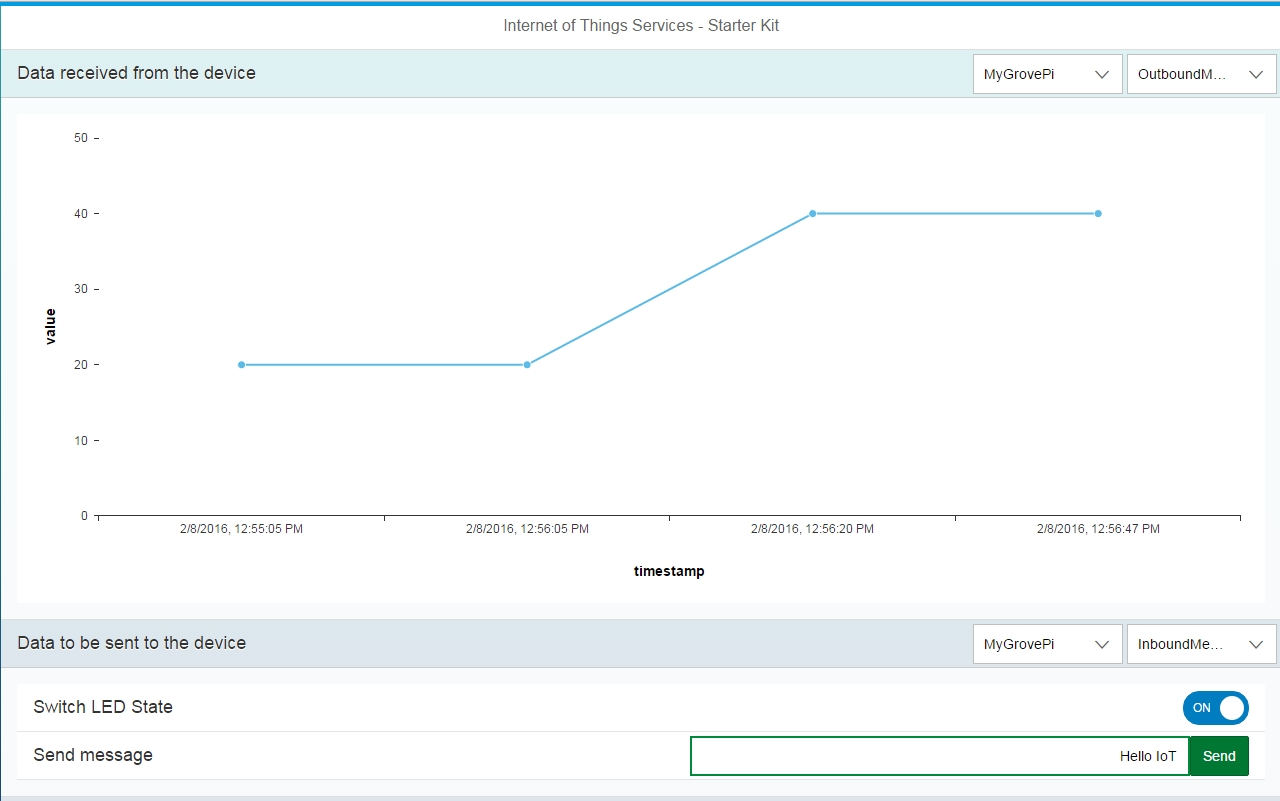
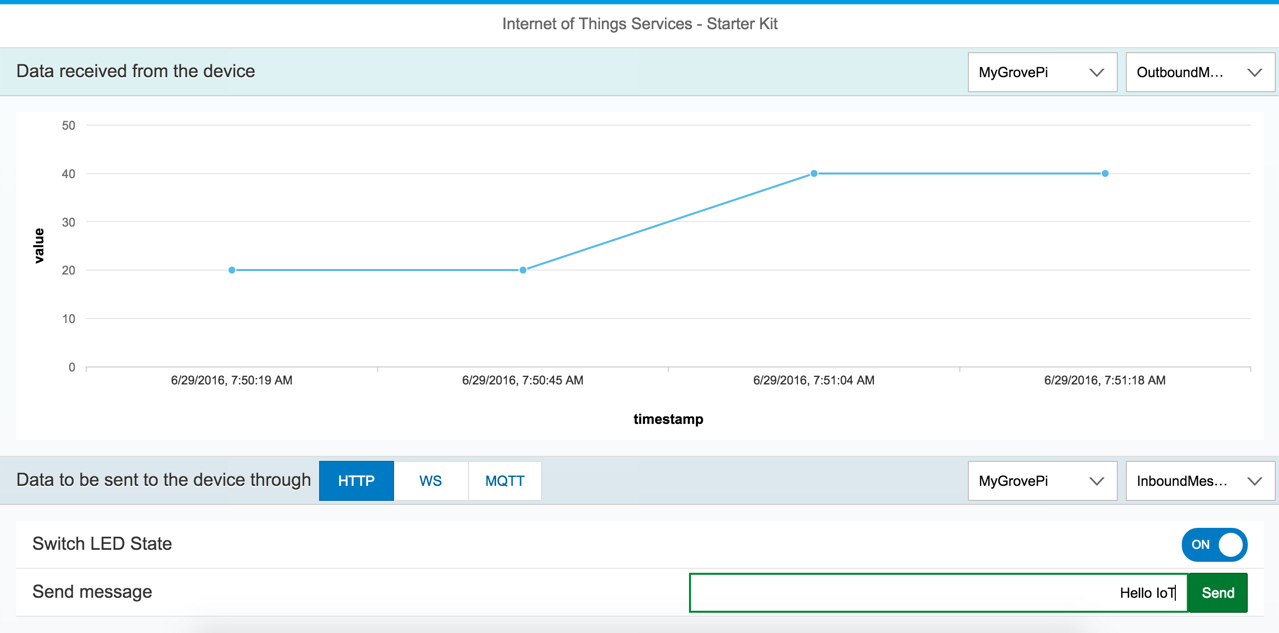
extend ui5 consumption/push example with an option to switch a push method

diff --git a/src/apps/java/consumption/com.sap.iot.starterkit.ui/src/main/webapp/index.html b/src/apps/java/consumption/com.sap.iot.starterkit.ui/src/main/webapp/index.html
@@ -106,6 +106,7 @@
 
 		var sDeviceId = oPushModelData.deviceId;
 		var sMessageTypeId = oPushModelData.messageTypeId;
+		var sMethod = oPushModelData.method;
 
 		if ( sDeviceId === null || sMessageTypeId === null || sDeviceId.trim() === ""
 			|| sMessageTypeId.trim() === "" ) {
@@ -113,6 +114,7 @@
 		}
 
 		oData.messageType = sMessageTypeId;
+		oData.method = sMethod;
 
 		var sUrl = "data/push/".concat( sDeviceId );
 		var successHandler = function( oData, textStatus, jqXHR ) {
@@ -123,7 +125,6 @@
 
 	function sendMessage( sMessage ) {
 		var oData = {
-			"method": "ws-mqtt",
 			"sender": "My IoT application",
 			"messageType": "",
 			"messages": [ {
@@ -137,7 +138,6 @@
 	function switchLED( bState ) {
 		var operand = bState == true ? "1" : "0";
 		var oData = {
-			"method": "ws-mqtt",
 			"sender": "My IoT application",
 			"messageType": "",
 			"messages": [ {
@@ -334,7 +334,7 @@
 	}
 
 	function createConsumptionPanel() {
-		var oLabel = new sap.m.Label( {
+		var oTitle = new sap.m.Title( {
 			text: "Data received from the device"
 		} );
 		var oSelectDevices = createDevicesSelect( function( oEvent ) {
@@ -398,7 +398,7 @@
 			filters: [ oFilter ]
 		} );
 		var oToolbar = new sap.m.Toolbar( {
-			content: [ oLabel, new sap.m.ToolbarSpacer(), oSelectDevices, oSelectMessageTypes ]
+			content: [ oTitle, new sap.m.ToolbarSpacer(), oSelectDevices, oSelectMessageTypes ]
 		} );
 		return new sap.m.Panel( {
 			headerToolbar: oToolbar,
@@ -407,8 +407,8 @@
 	}
 
 	function createPushPanel() {
-		var oLabel = new sap.m.Label( {
-			text: "Data to be sent to the device"
+		var oTitle = new sap.m.Title( {
+			text: "Data to be sent to the device through "
 		} );
 		var oSelectDevices = createDevicesSelect( function( oEvent ) {
 			var oSelectedItem = oEvent.getParameter( "selectedItem" );
@@ -470,8 +470,27 @@
 			template: oItem,
 			filters: [ oFilter ]
 		} );
+		var oSegmentedButton = new sap.m.SegmentedButton( {
+			selectedKey: "http",
+			items: [ new sap.m.SegmentedButtonItem( {
+				key: "http",
+				text: "HTTP"
+			} ), new sap.m.SegmentedButtonItem( {
+				key: "ws",
+				text: "WS"
+			} ), new sap.m.SegmentedButtonItem( {
+				key: "ws-mqtt",
+				text: "MQTT"
+			} ) ],
+			select: function( oEvent ) {
+				var oData = sap.ui.getCore().getModel( "pushModel" ).getData();
+				var sKey = oEvent.getSource().getSelectedKey();
+				oData.method = sKey;
+			}
+		} );
 		var oToolbar = new sap.m.Toolbar( {
-			content: [ oLabel, new sap.m.ToolbarSpacer(), oSelectDevices, oSelectMessageTypes ]
+			content: [ oTitle, oSegmentedButton, new sap.m.ToolbarSpacer(), oSelectDevices,
+				oSelectMessageTypes ]
 		} );
 		return new sap.m.Panel( {
 			headerToolbar: oToolbar,
@@ -503,7 +522,8 @@
 		oPushModel.setData( {
 			"deviceId": null,
 			"deviceTypeId": null,
-			"messageTypeId": null
+			"messageTypeId": null,
+			"method": "http"
 		} );
 		sap.ui.getCore().setModel( oPushModel, "pushModel" );
 	}
